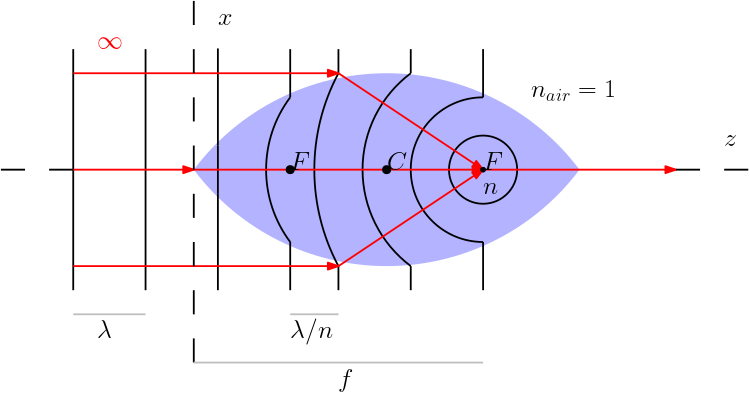
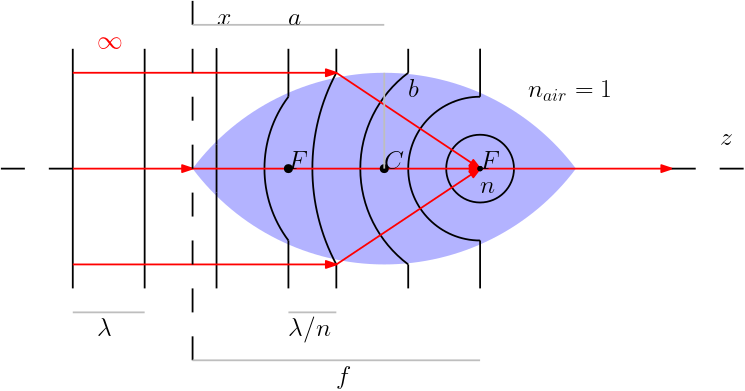
working on hw1ex3 edits

diff --git a/hw01sol.tex b/hw01sol.tex
@@ -95,11 +95,37 @@ For a Fiber with a GRIN (Gradient Index) between $n_{max} = 1.5$ and $n_{min} = 
 \label{fig:3}
 \end{figure}
 
-The dimension of the $x$ axes of an ellipsoidal refractor when focusing a object at $\infty$, with rays parallel to the major $z$ axes, to an image at $F$, is defined by the ellipsoidal refractor equation $\left(s-\frac{n}{n+1}f \right)^2 + \frac{n^2}{n^2 - 1}x^2 = \left(\frac{n}{n+1}f \right)^2$ where $s=\frac{x^2}{4f}$. When solving for $x$ we see that the solution is independent of wavelength $\lambda$.\\
+The dimension of the $x$ axes of an ellipsoidal refractor when focusing a object at $\infty$, with rays parallel to the major $z$ axes, to an image at $F$, is defined by the ellipsoidal refractor equation \ref{eq:e6}.
+%where 
+%$s=\frac{x^2}{4f}$.
+%When solving for $x$ we see that the solution is independent of wavelength $\lambda$.\\
 
-\begin{equation}
-\left(\frac{x^2}{4f}-\frac{n}{n+1}f \right)^2 + \frac{n^2}{n^2 - 1}x^2 = \left(\frac{n}{n+1}f \right)^2
+\begin{equation}\label{eq:e6}
+\left(s-\frac{n}{n+1}f \right)^2 + \frac{n^2}{n^2 - 1}x^2 = \left(\frac{n}{n+1}f \right)^2
+%\left(\frac{x^2}{4f}-\frac{n}{n+1}f \right)^2 + \frac{n^2}{n^2 - 1}x^2 = \left(\frac{n}{n+1}f \right)^2
 \end{equation}
+
+We want to rewrite Equation \ref{eq:e6} in the form of equation \ref{eq:e7}.
+
+\begin{equation}\label{eq:e7}
+\frac{(s-h)^2}{a^2} + \frac{x^2}{b^2} = 1 
+\end{equation}
+
+By dividing Equation \ref{eq:e6} by $\left(\frac{n}{n+1}f\right)^2$ we get $\frac{\left(s-\frac{n}{n+1}f \right)^2}{\left(\frac{n}{n+1}f\right)^2} + \frac{\frac{n^2}{n^2 - 1}}{\left(\frac{n}{n+1}f\right)^2}x^2 = 1$ which simplifies to Equation \ref{eq:e8}.
+
+\begin{equation}\label{eq:e8}
+\frac{\left(s-\frac{n}{n+1}f \right)^2}{\left(\frac{n}{n+1}f\right)^2} + 
+\frac{n + 1}{n-1} f^{-2} x^2 = 1
+\end{equation}
+
+Which from Equation \ref{eq:e7} tells us that $a=\frac{n}{n+1}f$ and $b=f \sqrt{\frac{n-1}{n+1}}$ giving us the major and minor axes of the ellipse.
+
+
+
+
+
+
+
 
 \textbf{Exercise 4. Hyperboloidal refractor}\\
 
